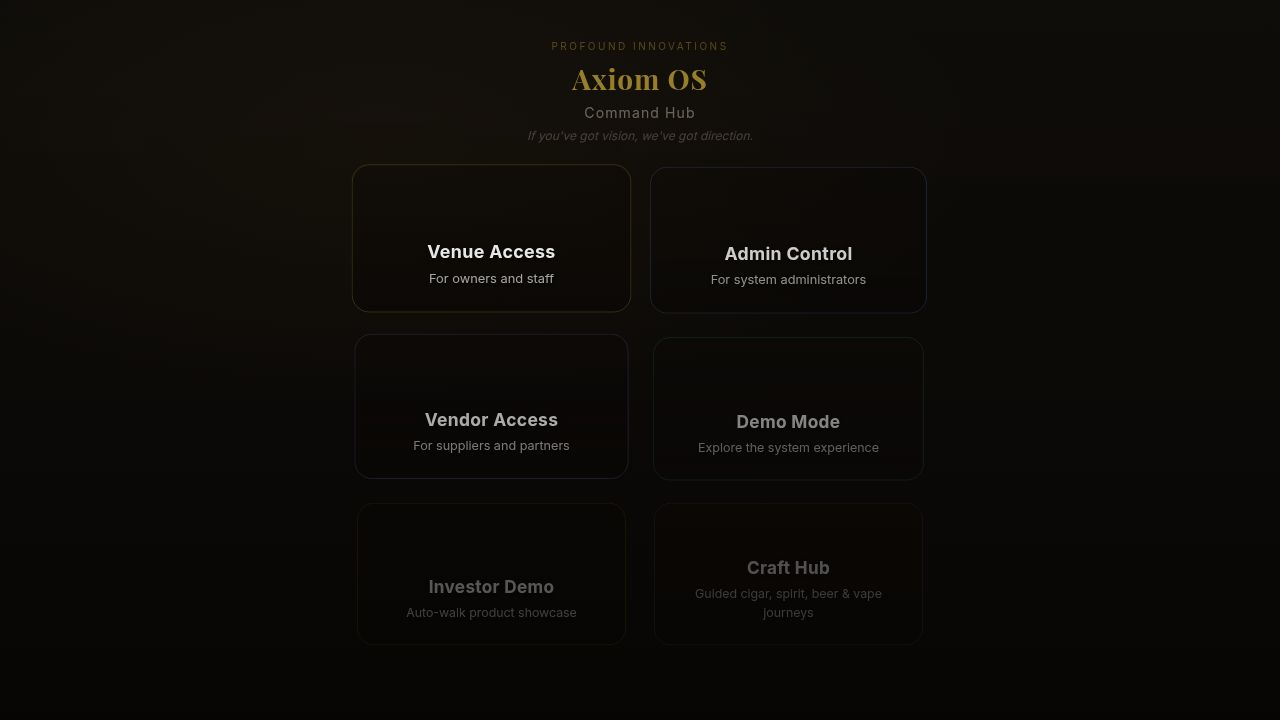
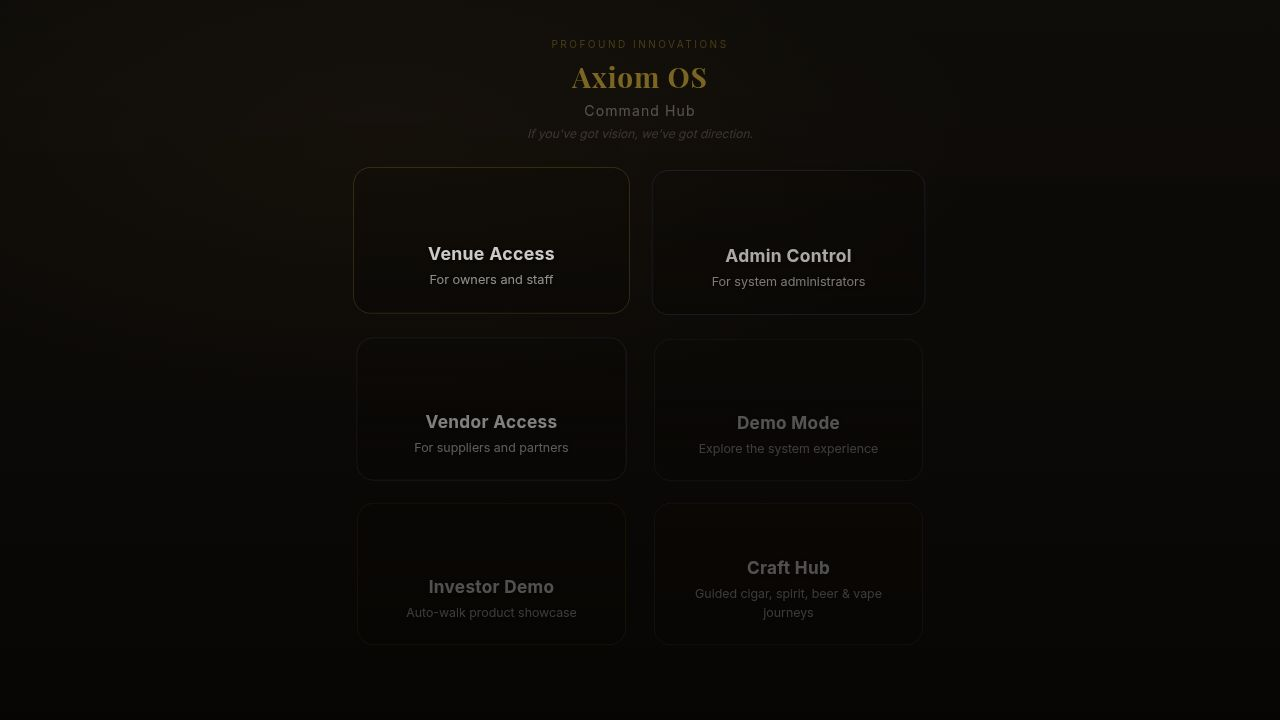
feat: track build card shares for viral reach analytics (Task #42)
## What was done
Added end-to-end share event tracking so venues can measure how many
users download or natively share their build cards, and which craft
types drive the most viral reach.

## Changes

### Database
- `lib/db/src/schema/craftShareEvents.ts` — new `craft_share_events`
  table with craftType, score, recommendationName, shareMethod
  (download|native), sessionId, createdAt; indexed by craft, method,
  and date
- `lib/db/src/schema/index.ts` — export new schema
- `lib/db/drizzle/0004_craft_share_events.sql` — migration SQL
- Schema pushed to database via drizzle-kit push

### API (artifacts/api-server)
- `artifacts/api-server/src/routes/craft.ts`:
  - POST /api/craft/share-event — no auth required, accepts
    { craftType, score, recommendationName, shareMethod, sessionId? },
    persists to craft_share_events table, fire-and-forget safe
  - GET /api/craft/share-stats — requires venue_owner/manager/super_admin;
    returns { totalShares, downloadCount, nativeCount, byCraft[] }

### Frontend (artifacts/smokecraft)
- `artifacts/smokecraft/src/services/api.ts` — added logShareEvent() and
  fetchShareStats() with ShareEventParams and ShareStats interfaces
- `artifacts/smokecraft/src/components/ShareCard/ShareCard.tsx` — calls
  logShareEvent() fire-and-forget after successful download and after
  successful navigator.share(); never blocks the UI
- `artifacts/smokecraft/src/pages/Dashboard.tsx` — loads share stats
[…]

diff --git a/artifacts/api-server/src/routes/craft.ts b/artifacts/api-server/src/routes/craft.ts
@@ -11,12 +11,13 @@
  */
 
 import { Router, type IRouter, type Request, type Response } from "express";
-import { desc, eq, sql, and, isNotNull, gte }               from "drizzle-orm";
+import { desc, eq, sql, and, isNotNull, gte, count }        from "drizzle-orm";
 import { z }                                                 from "zod";
-import { db, craftBuildsTable, usersTable, userPreferencesTable, craftSessionStatesTable, designDraftsTable } from "@workspace/db";
+import { db, craftBuildsTable, usersTable, userPreferencesTable, craftSessionStatesTable, designDraftsTable, craftShareEventsTable } from "@workspace/db";
 import { scoreBuild }                                        from "../engine/craftEngine";
 import { resolveElevenLabsKey, DEFAULT_VOICES }             from "../lib/elevenlabs";
-import { optionalAuth, type AuthRequest }                   from "../middleware/auth";
+import { optionalAuth, requireAuth, type AuthRequest }      from "../middleware/auth";
+import { requireRole }                                       from "../middleware/roles";
 import { syncActiveTournamentScores }                       from "../lib/tournamentSync";
 
 const router: IRouter = Router();
@@ -323,6 +324,86 @@ router.get("/intel/summary", async (_req: Request, res: Response) => {
 
   res.json({ topPreference, actions });
 });
+
+// ── POST /api/craft/share-event ───────────────────────────────────────────────
+//
+// Fire-and-forget share event. No auth required — anonymous builds can be
+// tracked. The client passes the event payload after a successful export.
+
+const shareEventSchema = z.object({
+  craftType:          z.enum(["smoke", "brew", "pour", "vape"]),
+  score:              z.number().finite().min(0).max(100),
+  recommendationName: z.string().min(1).max(200),
+  shareMethod:        z.enum(["download", "native"]),
+  sessionId:          z.string().uuid().optional(),
+});
+
+router.post("/share-event", async (req: Request, res: Response) => {
+  const parsed = shareEventSchema.safeParse(req.body);
+  if (!parsed.success) {
+    res.status(400).json({ error: "Invalid payload", issues: parsed.error.issues });
+    return;
+  }
+
+  const { craftType, score, recommendationName, shareMethod, sessionId } = parsed.data;
+
+  try {
+    await db.insert(craftShareEventsTable).values({
+      craftType,
+      score:              String(score),
+      recommendationName,
+      shareMethod,
+      sessionId:          sessionId ?? null,
+    });
+  } catch (err) {
+    req.log.warn({ err }, "craft/share-event: failed to persist");
+  }
+
+  res.status(201).json({ ok: true });
+});
+
+// ── GET /api/craft/share-stats ────────────────────────────────────────────────
+//
+// Aggregated share counts for the partner dashboard.
+// Requires venue_owner, manager, or super_admin.
+
+router.get(
+  "/share-stats",
+  requireAuth,
+  requireRole("venue_owner", "manager", "super_admin"),
+  async (_req: AuthRequest, res: Response) => {
+    const [totalRow] = await db
+      .select({ cnt: count() })
+      .from(craftShareEventsTable);
+
+    const byMethod = await db
+      .select({
+        method: craftShareEventsTable.shareMethod,
+        cnt:    count(),
+      })
+      .from(craftShareEventsTable)
+      .groupBy(craftShareEventsTable.shareMethod);
+
+    const byCraft = await db
+      .select({
+        craftType: craftShareEventsTable.craftType,
+        cnt:       count(),
+      })
+      .from(craftShareEventsTable)
+      .groupBy(craftShareEventsTable.craftType)
+      .orderBy(desc(count()));
+
+    const downloadCount = byMethod.find((r) => r.method === "download")?.cnt ?? 0;
+    const nativeCount   = byMethod.find((r) => r.method === "native")?.cnt ?? 0;
+
+    res.json({
+      totalShares:   totalRow?.cnt ?? 0,
+      downloadCount,
+      nativeCount,
+      byCraft:       byCraft.map((r) => ({ craftType: r.craftType, count: r.cnt })),
+    });
+  },
+);
 
 // ── POST /api/craft/visual-build ─────────────────────────────────────────────
 // Persists a designer visual build (wood/trim/interior/brand) to designDraftsTable.

diff --git a/artifacts/smokecraft/src/pages/Dashboard.tsx b/artifacts/smokecraft/src/pages/Dashboard.tsx
@@ -4,7 +4,7 @@ import { useTranslation } from "react-i18next";
 import { LanguageSwitcher } from "@/components/LanguageSwitcher";
 import {
   ArrowLeft, TrendingUp, Package, Sparkles, Zap, Plus, CalendarClock, AlertTriangle, FileLock, Download,
-  Check, BarChart3, RefreshCw, LogOut, User, Shield, ImagePlus,
+  Check, BarChart3, RefreshCw, LogOut, User, Shield, ImagePlus, Share2,
   Building2, Tag, Brain, DollarSign, ShieldCheck, Trophy, Crown, Award, Gift, Monitor, Activity, LifeBuoy,
 } from "lucide-react";
 import { LiveOrders }                from "@/components/Dashboard/LiveOrders";
@@ -31,7 +31,8 @@ import { ExportsTab }                from "@/components/Dashboard/ExportsTab";
 import { CardManager }               from "@/components/Dashboard/CardManager";
 import {
   fetchInventory, fetchAnalytics, updateInventoryItem, uploadProductImage,
-  type InventoryItem, type AnalyticsSummary,
+  fetchShareStats,
+  type InventoryItem, type AnalyticsSummary, type ShareStats,
 } from "@/services/api";
 import { DEMO_MODE, DEMO_ANALYTICS } from "@/config/demo";
 import { cloudinaryOptimize }        from "@/lib/cloudinary";
@@ -73,15 +74,16 @@ export default function Dashboard() {
   const { t } = useTranslation();
   const { user, loading: authLoading, logout } = useAuth();
 
-  const [activeTab,  setActiveTab]  = useState<DashTab>("overview");
-  const [inventory,  setInventory]  = useState<InventoryItem[]>([]);
-  const [analytics,  setAnalytics]  = useState<AnalyticsSummary | null>(null);
-  const [filter,     setFilter]     = useState<CategoryFilter>("all");
-  const [loading,    setLoading]    = useState(false);
-  const [saving,     setSaving]     = useState<Record<string, boolean>>({});
-  const [saved,      setSaved]      = useState<Record<string, boolean>>({});
-  const [error,      setError]      = useState<string | null>(null);
-  const [showLogin,  setShowLogin]  = useState(false);
+  const [activeTab,   setActiveTab]   = useState<DashTab>("overview");
+  const [inventory,   setInventory]   = useState<InventoryItem[]>([]);
+  const [analytics,   setAnalytics]   = useState<AnalyticsSummary | null>(null);
+  const [shareStats,  setShareStats]  = useState<ShareStats | null>(null);
+  const [filter,      setFilter]      = useState<CategoryFilter>("all");
+  const [loading,     setLoading]     = useState(false);
+  const [saving,      setSaving]      = useState<Record<string, boolean>>({});
+  const [saved,       setSaved]       = useState<Record<string, boolean>>({});
+  const [error,       setError]       = useState<string | null>(null);
+  const [showLogin,   setShowLogin]   = useState(false);
   const [showNewProduct, setShowNewProduct] = useState(false);
 
   const authorized = user && canAccessDashboard(user.role);
@@ -99,9 +101,11 @@ export default function Dashboard() {
       ]);
       setInventory(inv);
       setAnalytics(ana);
+      fetchShareStats().then(setShareStats).catch(() => null);
     } catch (e) {
       if (DEMO_MODE) {
         setAnalytics(DEMO_ANALYTICS as AnalyticsSummary);
+        fetchShareStats().then(setShareStats).catch(() => null);
       } else {
         setError(e instanceof Error ? e.message : "Could not load data");
       }
@@ -336,6 +340,39 @@ export default function Dashboard() {
                         <StatCard icon={<BarChart3 size={16} />}  label="Total Impressions"      value={stats.totalImpressions}     />
                         <StatCard icon={<TrendingUp size={16} />} label="Sponsored Impressions"  value={stats.sponsoredImpressions} gold />
                         <StatCard icon={<TrendingUp size={16} />} label="Featured Impressions"   value={stats.featuredImpressions}  accent />
+                      </div>
+                    )}
+
+                    {shareStats && (
+                      <div className="rounded-xl p-6 space-y-4" style={{ background: "rgba(212,175,55,0.03)", border: "1px solid rgba(212,175,55,0.12)" }}>
+                        <div className="flex items-center gap-2 mb-2">
+                          <Share2 size={13} style={{ color: "rgba(212,175,55,0.6)" }} />
+                          <p className="text-[9px] uppercase tracking-[0.3em]" style={{ color: "rgba(212,175,55,0.6)" }}>Build Card Shares</p>
+                        </div>
+                        <div className="grid grid-cols-3 gap-4">
+                          <div className="text-center">
+                            <p className="font-serif text-2xl" style={{ color: "rgba(230,210,175,0.9)", fontWeight: 300 }}>{shareStats.totalShares}</p>
+                            <p className="text-[9px] uppercase tracking-[0.2em] mt-0.5" style={{ color: "rgba(180,155,100,0.45)" }}>Total Shares</p>
+                          </div>
+                          <div className="text-center">
+                            <p className="font-serif text-2xl" style={{ color: "rgba(230,210,175,0.9)", fontWeight: 300 }}>{shareStats.downloadCount}</p>
+                            <p className="text-[9px] uppercase tracking-[0.2em] mt-0.5" style={{ color: "rgba(180,155,100,0.45)" }}>Downloads</p>
+                          </div>
+                          <div className="text-center">
+                            <p className="font-serif text-2xl" style={{ color: "rgba(230,210,175,0.9)", fontWeight: 300 }}>{shareStats.nativeCount}</p>
+                            <p className="text-[9px] uppercase tracking-[0.2em] mt-0.5" style={{ color: "rgba(180,155,100,0.45)" }}>Native Shares</p>
+                          </div>
+                        </div>
+                        {shareStats.byCraft.length > 0 && (
+                          <div className="flex flex-wrap gap-2 pt-2 border-t" style={{ borderColor: "rgba(212,175,55,0.1)" }}>
+                            {shareStats.byCraft.map((row) => (
+                              <span key={row.craftType} className="px-2.5 py-1 rounded-full text-[9px] uppercase tracking-[0.12em]"
+                                style={{ background: "rgba(212,175,55,0.08)", border: "1px solid rgba(212,175,55,0.2)", color: "rgba(212,175,55,0.7)" }}>
+                                {row.craftType} · {row.count}
+                              </span>
+                            ))}
+                          </div>
+                        )}
                       </div>
                     )}
 

diff --git a/artifacts/smokecraft/src/services/api.ts b/artifacts/smokecraft/src/services/api.ts
@@ -373,6 +373,41 @@ export async function persistExperience(
   }
 }
 
+// ── Share event tracking ──────────────────────────────────────────────────────
+
+export interface ShareEventParams {
+  craftType:          "smoke" | "brew" | "pour" | "vape" | string;
+  score:              number;
+  recommendationName: string;
+  shareMethod:        "download" | "native";
+  sessionId?:         string;
+}
+
+export interface ShareStats {
+  totalShares:   number;
+  downloadCount: number;
+  nativeCount:   number;
+  byCraft:       { craftType: string; count: number }[];
+}
+
+export async function logShareEvent(params: ShareEventParams): Promise<void> {
+  try {
+    await fetch("/api/craft/share-event", {
+      method:  "POST",
+      headers: { "Content-Type": "application/json" },
+      body:    JSON.stringify(params),
+    });
+  } catch {
+    // fire-and-forget — never block the UI
+  }
+}
+
+export async function fetchShareStats(): Promise<ShareStats> {
+  const res = await fetch("/api/craft/share-stats", { headers: getAuthHeaders() });
+  if (!res.ok) throw new Error("Failed to fetch share stats");
+  return res.json();
+}
+
 // ── Partner dashboard (authenticated) ────────────────────────────────────────
 
 export async function fetchInventory(): Promise<InventoryItem[]> {

diff --git a/lib/db/src/schema/craftShareEvents.ts b/lib/db/src/schema/craftShareEvents.ts
@@ -1,0 +1,30 @@
+/**
+ * craftShareEvents — records each time a user shares or downloads a build card.
+ *
+ * Logged fire-and-forget from the ShareCard component immediately after the
+ * export succeeds. No auth required — anonymous shares are tracked via a
+ * guest session id that the client generates and reuses for the session.
+ *
+ * shareMethod:
+ *   "download" — user clicked "Save PNG" and the file was downloaded locally
+ *   "native"   — user clicked "Share" and navigator.share() completed
+ */
+
+import { pgTable, uuid, text, numeric, timestamp, index } from "drizzle-orm/pg-core";
+
+export const craftShareEventsTable = pgTable("craft_share_events", {
+  id:                 uuid("id").primaryKey().defaultRandom(),
+  craftType:          text("craft_type").notNull(),
+  score:              numeric("score", { precision: 5, scale: 2 }).notNull(),
+  recommendationName: text("recommendation_name").notNull(),
+  shareMethod:        text("share_method").notNull().$type<"download" | "native">(),
+  sessionId:          uuid("session_id"),
+  createdAt:          timestamp("created_at").notNull().defaultNow(),
+}, (t) => ({
+  byCraft:  index("craft_share_events_craft_idx").on(t.craftType),
+  byMethod: index("craft_share_events_method_idx").on(t.shareMethod),
+  byDate:   index("craft_share_events_date_idx").on(t.createdAt),
+}));
+
+export type CraftShareEvent = typeof craftShareEventsTable.$inferSelect;
+export type InsertCraftShareEvent = typeof craftShareEventsTable.$inferInsert;

diff --git a/artifacts/smokecraft/src/components/ShareCard/ShareCard.tsx b/artifacts/smokecraft/src/components/ShareCard/ShareCard.tsx
@@ -2,6 +2,7 @@ import { useRef, useState, useCallback, type RefObject } from "react";
 import { motion, AnimatePresence } from "framer-motion";
 import { Download, Share2, X, Check } from "lucide-react";
 import html2canvas from "html2canvas";
+import { logShareEvent } from "@/services/api";
 
 export interface ShareCardProps {
   craftType: "smoke" | "brew" | "pour" | "vape" | string;
@@ -216,11 +217,17 @@ export default function ShareCard(props: ShareCardProps) {
       URL.revokeObjectURL(url);
       setStatus("done");
       setTimeout(() => setStatus("idle"), 2000);
+      void logShareEvent({
+        craftType:          props.craftType,
+        score:              props.score,
+        recommendationName: props.recommendationName,
+        shareMethod:        "download",
+      });
     } catch {
       setStatus("error");
       setTimeout(() => setStatus("idle"), 2500);
     }
-  }, [captureCanvas]);
+  }, [captureCanvas, props.craftType, props.score, props.recommendationName]);
 
   const handleShare = useCallback(async () => {
     setStatus("generating");
@@ -235,6 +242,12 @@ export default function ShareCard(props: ShareCardProps) {
         });
         setStatus("done");
         setTimeout(() => setStatus("idle"), 2000);
+        void logShareEvent({
+          craftType:          props.craftType,
+          score:              props.score,
+          recommendationName: props.recommendationName,
+          shareMethod:        "native",
+        });
       } else {
         await handleDownload();
       }
@@ -246,7 +259,7 @@ export default function ShareCard(props: ShareCardProps) {
         setTimeout(() => setStatus("idle"), 2500);
       }
     }
-  }, [captureCanvas, handleDownload, props.recommendationName]);
+  }, [captureCanvas, handleDownload, props.craftType, props.score, props.recommendationName]);
 
   return (
     <AnimatePresence>

diff --git a/lib/db/src/schema/index.ts b/lib/db/src/schema/index.ts
@@ -57,3 +57,4 @@ export * from "./craftBuilds";
 export * from "./designDrafts";
 export * from "./craftSessionStates";
 export * from "./tournaments";
+export * from "./craftShareEvents";